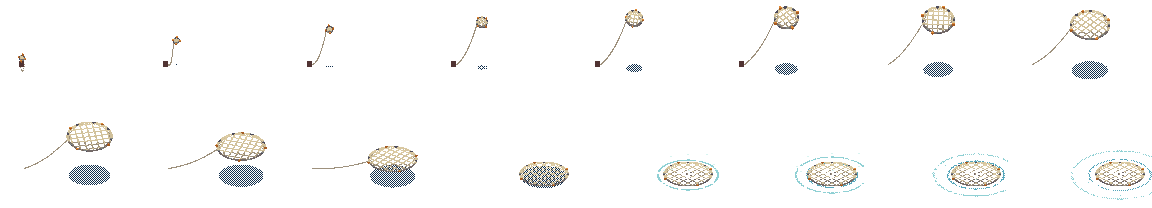
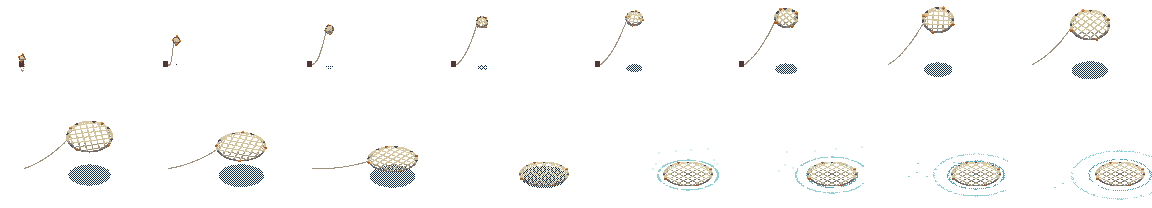
Tune net sprites; add net haul-up animation
Claude-Session: https://claude.ai/code/session_01StugNUrjnQmKyw4JosAoSb

diff --git a/games/farmhouse/pixel/gen_net_haul.py b/games/farmhouse/pixel/gen_net_haul.py
@@ -1,0 +1,190 @@
+"""
+網を引き上げる。海にひろがった網が、ふちをすぼめながら水から持ち上がり、資材（板・樽・丸太・魚・箱）をつつんだ袋になって、水をしたたらせる。
+python gen_net_haul.py → assets/effects/net_haul_sheet.png / net_haul.gif（12コマ）, net_haul_still.png（引き上げた袋 1枚）
+"""
+import os, math
+import numpy as np
+from PIL import Image
+import pxl
+HERE = os.path.dirname(os.path.abspath(__file__))
+OUT = os.path.join(HERE, "..", "assets", "effects")
+pal, _ = pxl.load_palette()
+def col(f, s): return np.array(pal[f][int(min(7, max(0, s)))], np.uint8)
+BAY = np.array([[0, 8, 2, 10], [12, 4, 14, 6], [3, 11, 1, 9], [15, 7, 13, 5]]) / 16.0
+def h2(ix, iy, seed=0):
+    ix = np.asarray(ix, np.int64); iy = np.asarray(iy, np.int64)
+    h = (ix * 73856093) ^ (iy * 19349663) ^ (seed * 83492791); h = (h ^ (h >> 13)) * 1274126177 & 0x7fffffff
+    return (h % 10007) / 10007.0
+def smooth(a, b, x): t = np.clip((x - a) / (b - a), 0, 1); return t * t * (3 - 2 * t)
+
+W, H = 96, 112
+YW = 92                                     # 水面の高さ（画面の行）
+HOOK = (48, 3)
+Y, X = np.mgrid[0:H, 0:W]
+
+class C:
+    def __init__(self): self.img = np.zeros((H, W, 4), np.uint8)
+    def px(self, x, y, f, s):
+        if 0 <= x < W and 0 <= y < H: self.img[y, x, :3] = col(f, s); self.img[y, x, 3] = 255
+    def mask(self, m, f, s):
+        if np.ndim(s) == 0: self.img[m, :3] = col(f, s); self.img[m, 3] = 255
+        else:
+            for v in np.unique(s[m]): mm = m & (s == v); self.img[mm, :3] = col(f, int(v)); self.img[mm, 3] = 255
+    def rect(self, x0, y0, x1, y1, f, s):
+        for yy in range(y0, y1):
+            for xx in range(x0, x1): self.px(xx, yy, f, s)
+
+# ---- 資材（小さな絵）。袋の中にいれる
+def item_plank(c, x, y, ang, L=22, f='D', s=4):
+    for k in range(L):
+        px_, py_ = x + k * math.cos(ang), y + k * math.sin(ang)
+        for o in (0, 1, 2):
+            c.px(int(round(px_ - math.sin(ang) * o)), int(round(py_ + math.cos(ang) * o)), f, s + (1 if o == 0 else -1 if o == 2 else 0))
+    c.px(int(x + L * math.cos(ang)), int(y + L * math.sin(ang)), 'D', 6)
+def item_barrel(c, x, y):
+    for yy in range(0, 13):
+        w = 6 + int(1.5 * math.sin(math.pi * yy / 12))
+        for xx in range(-w, w + 1):
+            c.px(x + xx, y + yy, 'D', 4 if xx < -w + 3 else 3 if xx < w - 2 else 2)
+    for yy in (3, 9):
+        for xx in range(-7, 8): c.px(x + xx, y + yy, 'I', 3)
+    for xx in range(-5, 6): c.px(x + xx, y - 1, 'D', 5)
+def item_log(c, x, y):
+    for yy in range(-5, 6):
+        for xx in range(0, 18):
+            if xx < 3 and abs(yy) > 4 - xx * .3: continue
+            c.px(x + xx, y + yy, 'D', 2 if yy > 2 else 3 if yy > -2 else 4)
+    for yy in range(-5, 6):
+        for xx in (-1, 0):
+            if yy * yy < 26 - 1: c.px(x + xx, y + yy, 'D', 6 if (yy * yy + xx * 3) % 7 > 2 else 5)
+def item_fish(c, x, y, dirn=1):
+    body = [(0, 0), (1, 0), (2, 0), (3, 0), (4, 0), (5, 0), (6, 0), (7, 0), (8, 0), (2, -1), (3, -1), (4, -1), (5, -1), (6, -1), (3, 1), (4, 1), (5, 1), (6, 1), (7, 1), (9, -1), (10, -2), (10, 1), (9, 0), (9, 1)]
+    for dx, dy in body: c.px(x + dx * dirn, y + dy, 'S' if dy <= 0 else 'I', 5 if dy < 0 else 4 if dy == 0 else 3)
+    c.px(x + 1 * dirn, y - 1, 'T', 0)
+def item_crate(c, x, y):
+    c.rect(x, y, x + 12, y + 10, 'D', 4)
+    for xx in range(x, x + 12): c.px(xx, y, 'D', 6); c.px(xx, y + 9, 'D', 2)
+    for k in range(10): c.px(x + 1 + k, y + 1 + k * 9 // 10, 'D', 2); c.px(x + 10 - k, y + 1 + k * 9 // 10, 'D', 2)
+    for xx in (x, x + 11):
+        for yy in range(y, y + 10): c.px(xx, yy, 'D', 1)
+
+def contents(c, cx, cy, t):
+    """袋のなか（t: 袋のふくらみ）"""
+    item_log(c, cx - 11, cy + 14)
+    item_barrel(c, cx + 5, cy + 6)
+    item_crate(c, cx - 15, cy + 2)
+    item_fish(c, cx - 4, cy + 22, 1); item_fish(c, cx + 6, cy + 25, -1)
+
+def bag_mask(cx, top, bot, Wd):
+    u = (Y + .5 - top) / (bot - top); uc = .62
+    hw = np.where(u >= uc, Wd * np.sqrt(np.clip(1 - ((u - uc) / (1 - uc)) ** 2, 0, 1)), Wd * np.clip(u / uc, 0, 1) ** 1.25 + 1.2)
+    return (u >= 0) & (u <= 1) & (np.abs(X + .5 - cx) <= hw), hw, u
+
+def frame(i, N=12, sway=0.0):
+    t = i / (N - 1)
+    c = C()
+    rise = smooth(.12, .95, t)                                       # 引き上げ具合
+    close = smooth(.05, .6, t)                                       # すぼまり具合
+    cx = 48 + sway
+    # 水面のゆれ（背景は透明、水面の波紋だけ描く）
+    # ---- 網（袋）の形：ひろがった円盤 → 袋
+    cy_disc = YW + 4
+    top = YW - 6 - rise * 72                       # 袋の上（すぼめ口）の位置
+    bot = (cy_disc + 8) - rise * 40                  # 袋の底
+    Wd = 25 - 4 * close
+    if close < .15:
+        # まだ水に広がった円盤（ちょっと持ち上がり始め）
+        a = 25 - 6 * close / .15; asp = .5 + .12 * close / .15; cyy = cy_disc - rise * 8
+        r = np.hypot((X + .5 - cx) / a, (Y + .5 - cyy) / (a * asp)); inside = r <= 1
+        kk = 2 * a / 10; g1 = ((X + .5 - cx) / a + (Y + .5 - cyy) / (a * asp)) * kk / 2; g2 = ((X + .5 - cx) / a - (Y + .5 - cyy) / (a * asp)) * kk / 2
+        grad = (kk / 2) * math.hypot(1 / a, 1 / (a * asp))
+        mesh = inside & ((np.abs(g1 - np.round(g1)) / grad < .62) | (np.abs(g2 - np.round(g2)) / grad < .62))
+        rim = inside & (r > 1 - 2.4 / a)
+        c.mask(mesh | rim, 'C', np.clip(np.round(4 - (Y + .5 - cyy) / (a * asp) * 1.3 - (r < .6) * 1), 1, 6).astype(int))
+    else:
+        # 袋：中身 → あみ目 → ふち。水の下の部分は水色に
+        m, hw, u = bag_mask(cx, top, bot, Wd)
+        cb = C(); contents(cb, int(cx), int(bot - 40 + (1 - close) * 6), t)
+        # 袋の影（中身のうしろ）：あみ目のすき間から暗い内側が見える
+        c.mask(m, 'w', 1 + (BAY[Y % 4, X % 4] < .3).astype(int))
+        ci = cb.img[:, :, 3] > 0
+        c.img[m & ci] = cb.img[m & ci]
+        # あみ目（たて向きのひし形）
+        P = 8.0
+        g1 = (X + Y * .85) / P; g2 = (X - Y * .85) / P
+        # 袋の丸みで線が集まる：口に近いほど細かく
+        mesh = m & ((np.abs(g1 - np.round(g1)) < .11) | (np.abs(g2 - np.round(g2)) < .11))
+        edge = m & (np.abs(np.abs(X + .5 - cx) - hw) < 1.6)
+        lit = np.clip(np.round(4 + ((X + .5 - cx) / np.maximum(hw, 1)) * -1.2 + (u < .3) * .5), 1, 6).astype(int)
+        c.mask(mesh, 'C', lit)
+        c.mask(edge, 'C', np.clip(lit - 1, 1, 6))
+        # 口のすぼめ結び目とロープ
+        kx, ky = int(cx), int(top)
+        c.rect(kx - 2, ky - 1, kx + 3, ky + 3, 'D', 3); c.rect(kx - 1, ky - 1, kx + 2, ky, 'D', 5)
+        for yy in range(HOOK[1], ky - 1):
+            xx = int(round(HOOK[0] + (cx - 48) * ((yy - HOOK[1]) / max(1, ky - HOOK[1]))))
+            c.px(xx, yy, 'C', 4); c.px(xx + 1, yy, 'C', 2)
+        # 口からはみだす板（引き上げたあとの資材）
+        if t > .55:
+            k = smooth(.55, .9, t)
+            for dx, ang in ((-5, -1.95), (2, -1.3), (6, -.95)):
+                item_plank(c, int(cx + dx), int(top + 6), ang, int(7 + 7 * k), "D", 4)
+        # 水中の部分：水の色にかぶせる（あみ目と中身がにじむ）
+        sub = (Y >= YW) & (c.img[:, :, 3] > 0)
+        swz = BAY[Y % 4, X % 4] < .62
+        c.img[sub & swz, :3] = col('w', 3); c.img[sub & swz, 3] = 255
+    # ---- 水面：波紋、しずくの滝
+    def ripple(rad, k, f='w', s=6):
+        d = np.hypot((X + .5 - cx) / rad, (Y + .5 - (YW + 1)) / (rad * .5))
+        mm = (np.abs(d - 1) < 1.1 / rad) & (BAY[(Y + 1) % 4, X % 4] < .35 + .6 * k) & (h2(X // 3, Y // 2, 3) > .22)
+        mm &= c.img[:, :, 3] == 0
+        c.mask(mm, f, s)
+    ripple(30 + 10 * t, 1 - .5 * t); ripple(22 + 8 * t, .8 - .4 * t, 'w', 5)
+    if t < .5: ripple(36 + 22 * t, .5, 'w', 4)
+    # 袋の底から水がしたたる
+    if close >= .15:
+        m, hw, u = bag_mask(cx, top, bot, Wd)
+        yb = int(bot)
+        ndrop = int(round(9 * (1 - smooth(.55, 1.0, t)) + 3))
+        for j in range(ndrop):
+            fx = (h2(j, 1, 7) - .5) * 1.7 * (Wd * .85); ph = (h2(j, 2, 8) + t * 3.0 + j * .37) % 1
+            ys = yb + 1 + int(ph * (YW + 4 - yb)); xs = int(cx + fx)
+            if ys < YW + 2 and ys > yb - 1:
+                c.px(xs, ys, 'w', 7); c.px(xs, ys + 1, 'w', 6)
+        if t > .3:                                                    # 水の筋（袋のふちを伝う）
+            for xx in (-1, 1):
+                for yy in range(yb - 8, yb):
+                    if h2(yy, xx, 4) > .4: c.px(int(cx + xx * (Wd * .6)), yy, 'w', 6)
+        # 水面にぽたぽた輪
+        if t > .45:
+            for j in range(3):
+                ph = (t * 3.0 + j * .33) % 1; rr = 2 + ph * 7
+                if ph > .1:
+                    for ang in np.linspace(0, math.tau, 14, endpoint=False):
+                        c.px(int(cx + (j - 1) * 9 + math.cos(ang) * rr), int(YW + 2 + math.sin(ang) * rr * .5), 'w', 6)
+    return c.img
+
+N = 12
+fr = [frame(i, N, sway=(math.sin(i * .9) * 1.2 * smooth(.6, 1, i / (N - 1)))) for i in range(N)]
+h, w = fr[0].shape[:2]
+sheet = np.zeros((h * 2, w * 6, 4), np.uint8)
+for i, f in enumerate(fr): sheet[(i // 6) * h:(i // 6 + 1) * h, (i % 6) * w:(i % 6 + 1) * w] = f
+Image.fromarray(sheet).save(os.path.join(OUT, "net_haul_sheet.png"))
+Image.fromarray(fr[-1]).save(os.path.join(OUT, "net_haul_still.png"))
+def bgw(t):
+    cvx, cvy = np.meshgrid(np.arange(W), np.arange(H))
+    hh = np.sin(2 * math.pi * (cvx / 31.0 + cvy / 11.0 - t)) * .5 + np.sin(2 * math.pi * (cvx / 17.0 - cvy / 7.0 + t * 2)) * .35
+    idx = np.clip(np.floor((hh + 1) / 2 * 2.4 + (BAY[cvy % 4, cvx % 4] - .5) * .6).astype(int) + 2, 2, 4)
+    img = np.zeros((H, W, 4), np.uint8)
+    for v in (2, 3, 4): img[idx == v, :3] = col('w', v)
+    img[..., 3] = 255
+    sky = np.arange(H)[:, None] < YW - 2                              # 水面より上は夜空の色
+    img[(cvy < YW - 2)] = [*col('K', 2), 255]
+    return img
+K = 5
+g = []
+for i, f in enumerate(fr):
+    b = Image.fromarray(bgw(i / 12.0)); b.alpha_composite(Image.fromarray(f)); g.append(b.resize((W * K, H * K), Image.NEAREST).convert("RGB"))
+g[0].save(os.path.join(OUT, "net_haul.gif"), save_all=True, append_images=g[1:], duration=[110] * 10 + [200, 260], loop=0)
+g[-1].save(os.path.join(OUT, "net_haul_preview.png"))
+print("ok")

diff --git a/games/farmhouse/pixel/gen_net.py b/games/farmhouse/pixel/gen_net.py
@@ -59,7 +59,7 @@ def draw_net(cv, cx, cy, a, asp, spin, P=9, haze=0.0, sink=False):
         deep = np.clip(1 - r / .95, 0, 1)
         lost = (deep > .55)
         base = base - np.round(deep * 2.0).astype(int)
-        rope = rope & ~(lost & ~rim & (r < .55) & (kk > 0) & (h2(cv.X // 2, cv.Y // 2, 9) > .5))
+        pass
     rimshade = np.where(rim, base + 0, base)
     cv.put(rope, 'C', np.clip(np.where(rim, base - (v > .3) * 1, base) - 0, 1, 6))
     # ふちのなわは太く見えるよう、内がわにも1ドット（明るい線）
@@ -107,7 +107,7 @@ for i in range(NFLY + NSPL):
         t = i / (NFLY - 1); te = t ** .9
         gx = p0[0] + (p3[0] - p0[0]) * te; gy = p0[1] + (p3[1] - p0[1]) * te
         cy_ = gy - APEX * 4 * te * (1 - te) - 4 * (1 - te)
-        a = 3.5 + (25 - 3.5) * smooth(.12, .86, t); asp = 1.0 - .5 * smooth(.25, 1.0, t)
+        a = (3.5 + (25 - 3.5) * smooth(.12, .86, t)) * (1 + .09 * math.sin(t * 9.4) * (1 - t)); asp = (1.0 - .5 * smooth(.25, 1.0, t)) * (1 + .16 * math.sin(t * 11) * (1 - t))
         spin = (1 - smooth(0, 1, t)) * math.pi * 1.7
         P = 4 + 5 * smooth(.1, .8, t)
         shadow(cv, gx, gy + 3, a * .9, .5, .45 * smooth(0, .4, t))
@@ -128,12 +128,12 @@ for i in range(NFLY + NSPL):
         if k >= 1: ripple(cv, gx, gy + 1, 22 + k * 3, .5, 0, .8 - k * .15, 'w', 5)
         draw_net(cv, gx, gy, a, asp, 0.0, P=9, sink=True, haze=.2 * k)
         # しぶき：上へとんで落ちる水のつぶ
-        for j in range(10):
-            ang = j * math.tau / 10 + .3; sp = [8, 12, 14, 12][k] * (.6 + .5 * h2(j, 1, 2))
+        for j in range(14):
+            ang = j * math.tau / 14 + .3; sp = [13, 19, 21, 17][k] * (.6 + .5 * h2(j, 1, 2))
             dx = math.cos(ang) * sp * (1.0 + k * .35); dy = -abs(math.sin(ang)) * sp * 1.1 * [1.2, 1.0, .5, -.2][k] + 6 * k * k * .3
             xx, yy = int(gx + dx * 1.6 + math.cos(ang) * a * .7), int(gy + dy - 4 + math.sin(ang) * a * .3)
             if k < 3 or j % 2 == 0:
-                for ox, oy in ((0, 0), (1, 0)) if k < 2 else ((0, 0),):
+                for ox, oy in ((0, 0), (1, 0), (0, 1), (1, 1)) if k < 2 else ((0, 0), (1, 0)):
                     if 0 <= xx + ox < W1 and 0 <= yy + oy < H1:
                         cv.img[yy + oy, xx + ox, :3] = col('w', 7 if k < 2 else 6); cv.img[yy + oy, xx + ox, 3] = 255
     frames_throw.append(cv.img.copy())
@@ -147,7 +147,7 @@ for i in range(4):
     bob = [0, 0, 1, 1][i] if False else int(round(math.sin(math.tau * ph) * .8))
     ripple(cv, cx, cy + 1, 32 + 3 * ph, .5, 0, .9 - .5 * ph, 'w', 5 if ph < .5 else 4)
     ripple(cv, cx, cy + 1, 29 + 3 * ph, .5, 0, .5, 'w', 4)
-    draw_net(cv, cx + (1 if i in (1, 2) else 0) * 0, cy + bob, 25, .5, math.sin(math.tau * ph) * .035, P=9, sink=True)
+    draw_net(cv, cx + (1 if i in (1, 2) else 0) * 0, cy + bob, 25, .5, math.sin(math.tau * ph) * .035, P=10, sink=True)
     # 水が網のふちを洗う、白いあわ（ふち手前）
     for j in range(7):
         th_ = (.12 + j * .13 + ph * .08) * math.pi + math.pi * .0

diff --git a/games/koushu-denwa/STATUS.md b/games/koushu-denwa/STATUS.md
@@ -143,3 +143,4 @@ GeForce RTX 2070 SUPER／Core i7-10700K／メモリ32GB／SSD 1TB＋HDD 2TB
 - 2026-10-07 farmhouse：炎エフェクト・SMG・イカダ・海タイル・水ぎわの家の反射（pixel/iso_reflect.py）を追加。次：反射に小物/つるを入れる、イカダの縁タイル。
 - 2026-10-08 farmhouse：HD-2D風の島マップ（パーツ方式：island_parts.py＋island_map.json＋compose_island.py）。小屋4・桟橋・舟・木。次：地形をなめらかに、小屋の向き違い、エンジンでぼかし/光。
 - 2026-10-08 farmhouse：資材回収の網（投げる16コマ・海にうかぶ4コマ）を gen_net.py で追加。次：島の地形をなめらかに、網でひろう演出。
+- 2026-10-08 farmhouse：網を調整（開きのゆらぎ・しぶき大・沈む網）＋引き上げ（gen_net_haul.py 12コマ）。次：中身をはっきり、島の地形をなめらかに。

diff --git a/games/farmhouse/pixel/README.md b/games/farmhouse/pixel/README.md
@@ -132,3 +132,8 @@
 ## 網（gen_net.py）
 `python gen_net.py` → assets/effects/net_throw(.gif/_sheet.png)（投げる12コマ＋着水4コマ）, net_float(.gif/_sheet.png)（海にうかぶ4コマ）, net_still.png（透明背景の1枚）。
 あみ目は2:1の斜め線（(x±2y) の格子）、ふちになわ・おもり8・うき4。しずむ中心ほど暗く。
+
+## 網を引き上げる（gen_net_haul.py）
+`python gen_net_haul.py` → assets/effects/net_haul(.gif/_sheet.png)（12コマ）, net_haul_still.png（引き上げた袋）。
+ひろがった網 → ふちをすぼめて持ち上がる → 資材（板・樽・丸太・魚・箱）を包んだ袋。水のしたたりと波紋つき。
+弱点：中身が小さく、あみ目の穴でよく見えない。
